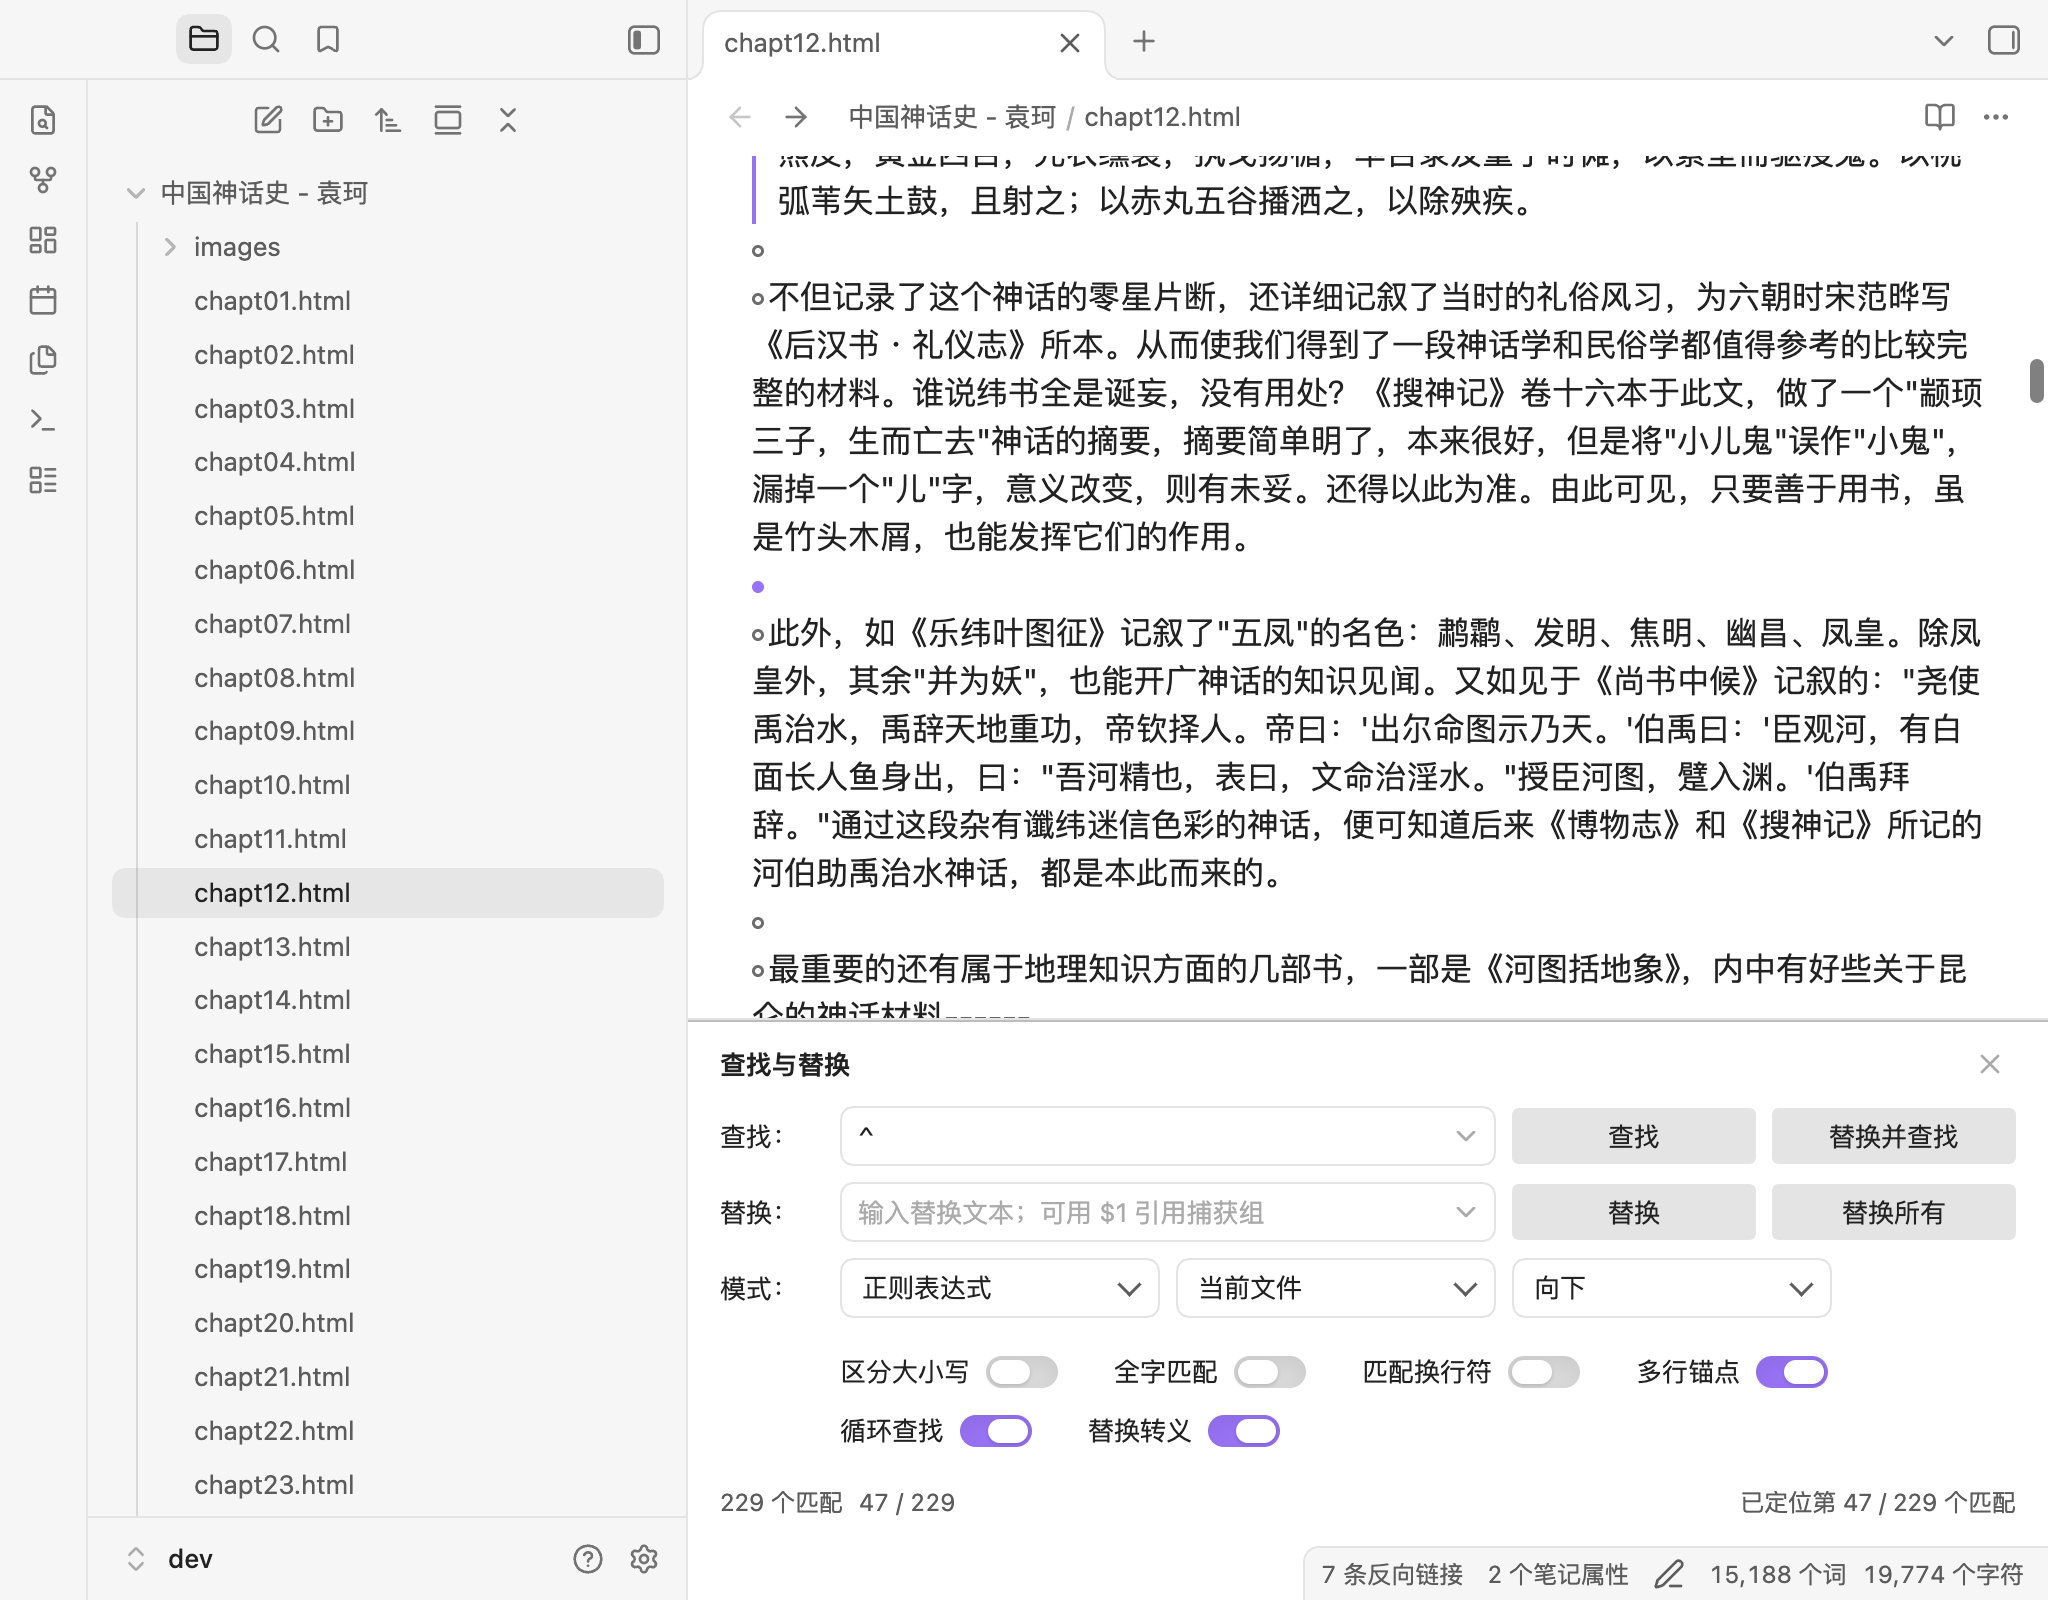
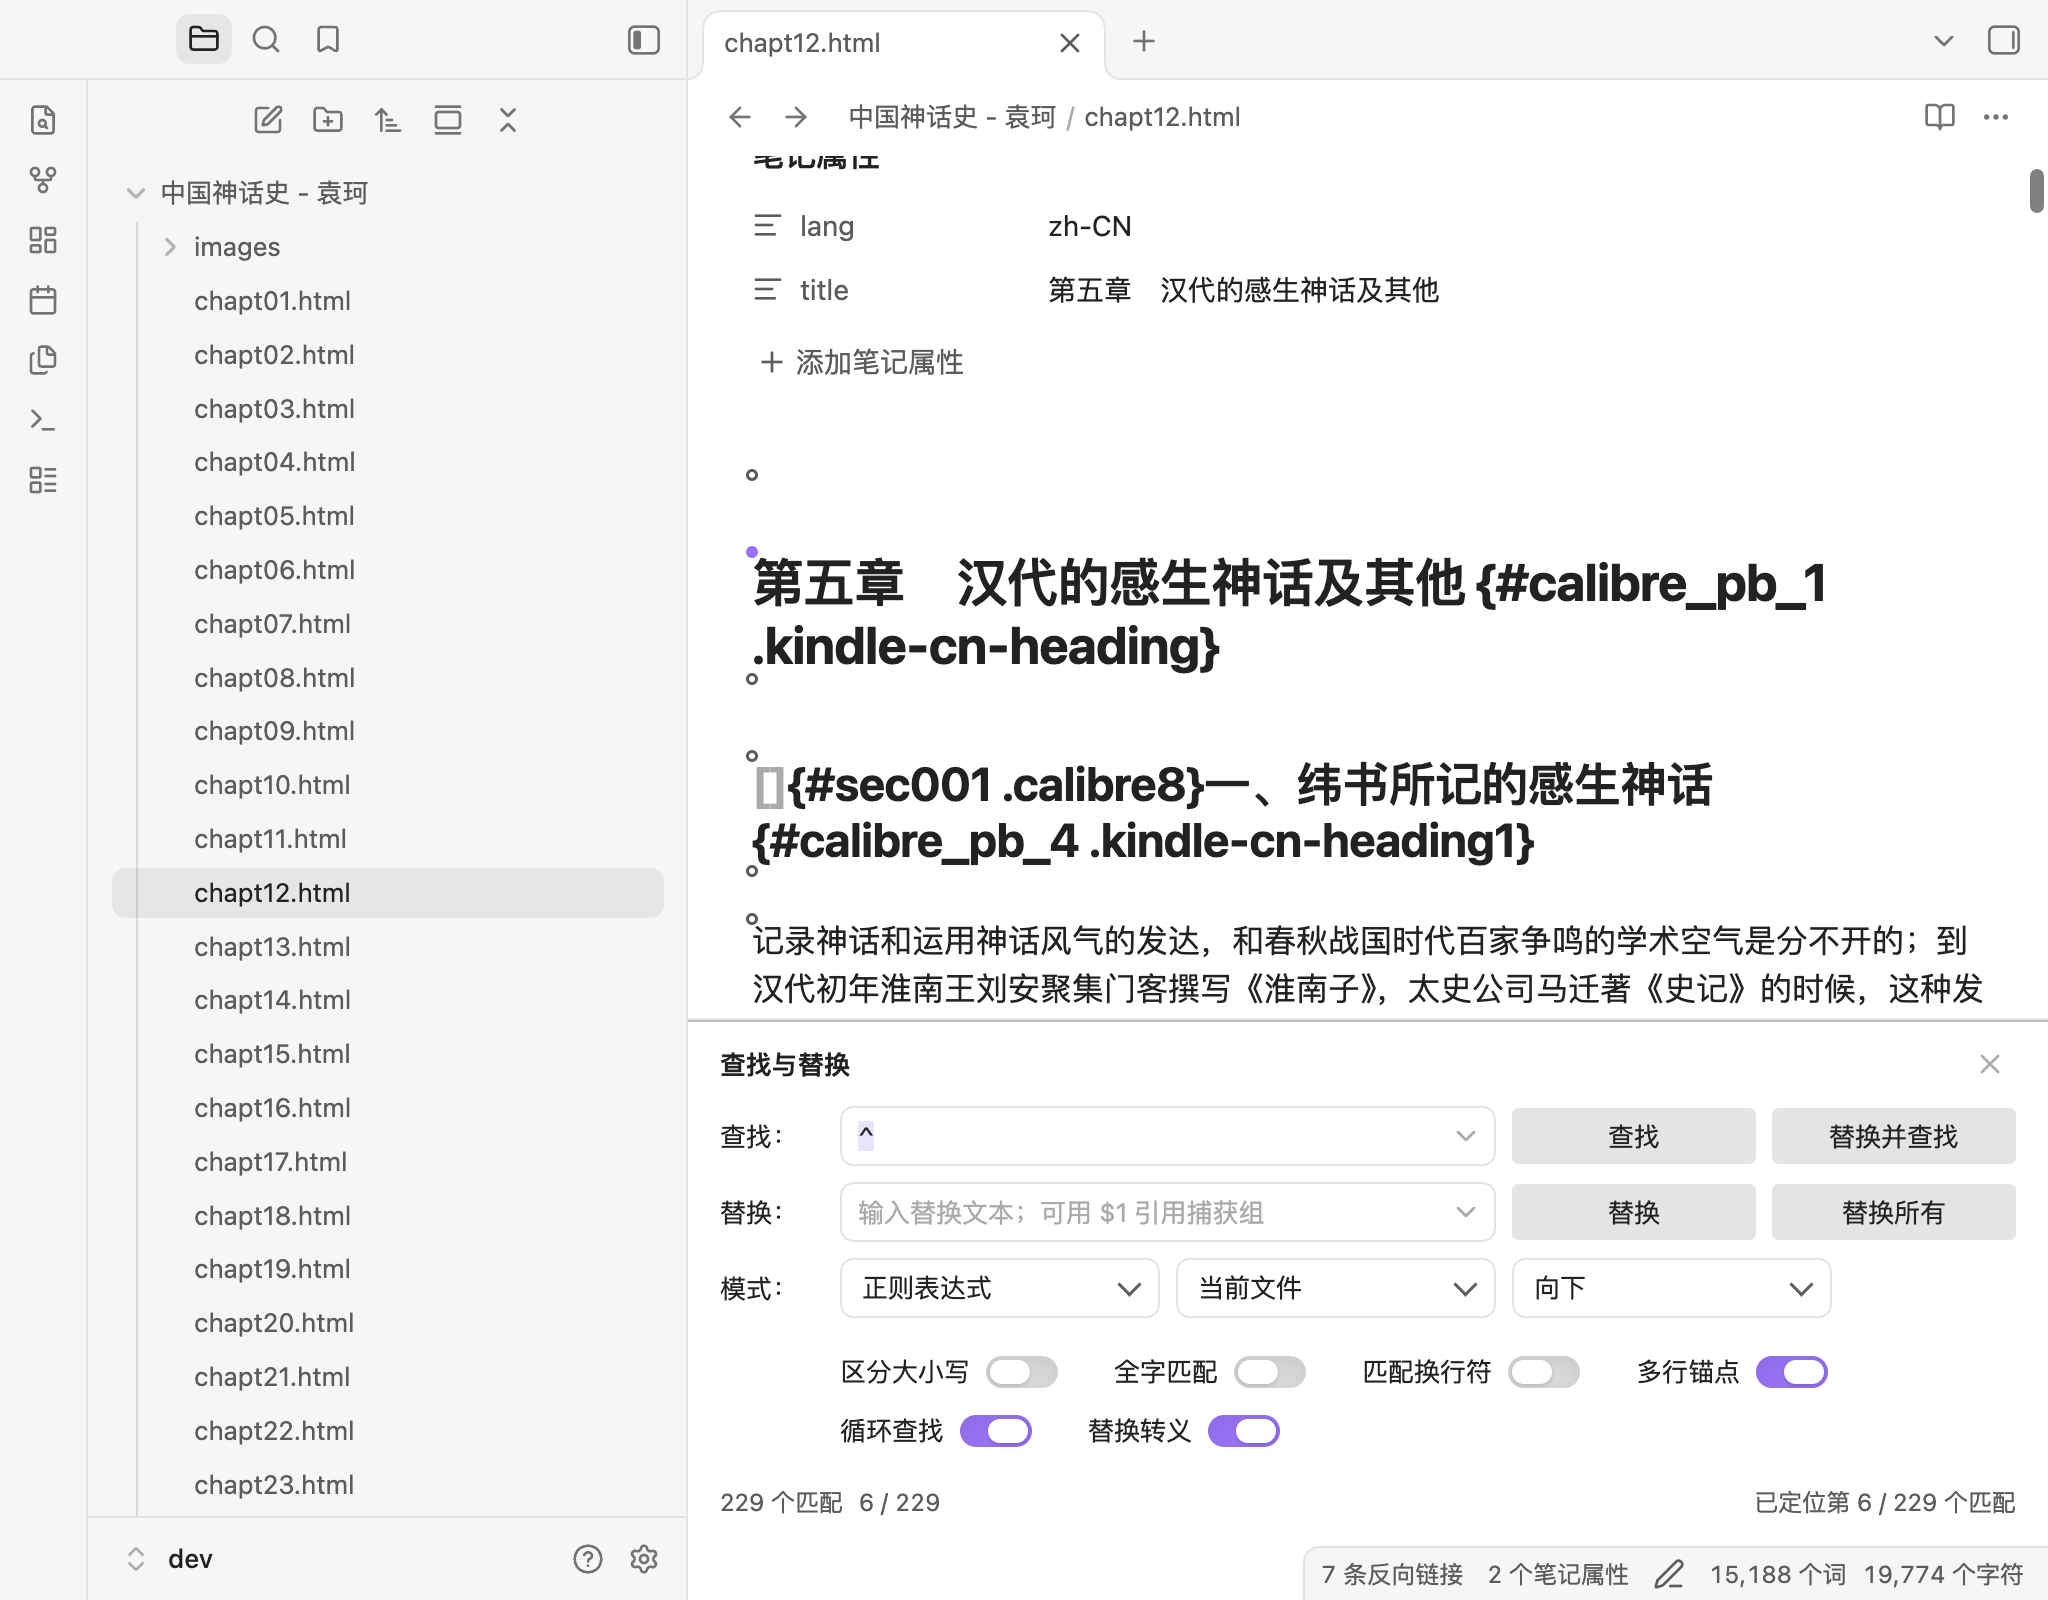
Refine zero-width and newline marker rendering

diff --git a/styles.css b/styles.css
@@ -296,31 +296,43 @@
 	box-shadow: 0 0 0 1px var(--interactive-accent);
 }
 
-.rr-zero-width {
+.rr-zero-width,
+.rr-line-break {
+	position: relative;
 	display: inline-block;
-	box-sizing: border-box;
+	width: 0;
+	height: 1em;
+	margin: 0;
+	border: 0;
+	background: transparent;
+	pointer-events: none;
+	vertical-align: text-bottom;
+}
+
+.rr-zero-width::before {
+	position: absolute;
+	top: -0.05em;
+	left: 50%;
 	width: 6px;
 	height: 6px;
-	margin: 0 2px 0 0;
+	box-sizing: border-box;
 	border: 1.5px solid var(--text-muted);
 	border-radius: 50%;
 	background-color: transparent;
-	opacity: 0.9;
-	pointer-events: none;
-	vertical-align: 0.1em;
+	transform: translate(-50%, -100%);
+	content: "";
 }
 
-.rr-zero-width.rr-zero-width-active {
+.rr-zero-width.rr-zero-width-active::before {
 	border-color: var(--interactive-accent);
 	background-color: var(--interactive-accent);
 	box-shadow: 0 0 0 1px var(--background-primary);
-	opacity: 1;
 }
 
-.rr-line-break {
-	display: inline-block;
-	box-sizing: border-box;
-	margin: 0 1px;
+.rr-line-break::before {
+	position: absolute;
+	left: 2px;
+	bottom: 0.15em;
 	padding: 0 2px;
 	color: var(--text-muted);
 	font-family: var(--font-interface);
@@ -330,11 +342,11 @@
 	border-radius: 3px;
 	background-color: var(--background-primary);
 	opacity: 0.85;
-	pointer-events: none;
-	vertical-align: text-bottom;
+	white-space: nowrap;
+	content: "\21B5";
 }
 
-.rr-line-break.rr-line-break-active {
+.rr-line-break.rr-line-break-active::before {
 	color: var(--text-on-accent);
 	background-color: var(--interactive-accent);
 	border-color: var(--interactive-accent);

diff --git a/src/editor/inline-panel.ts b/src/editor/inline-panel.ts
@@ -62,7 +62,6 @@ class LineBreakMarker extends WidgetType {
 		marker.className = this.active
 			? "rr-line-break rr-line-break-active"
 			: "rr-line-break";
-		marker.textContent = "\u21B5";
 		marker.setAttribute("aria-hidden", "true");
 		return marker;
 	}

diff --git a/UI-SPEC.md b/UI-SPEC.md
@@ -199,8 +199,8 @@ The status container has `role="status"`, `aria-live="polite"`, `aria-atomic="tr
 
 - **All matches** in the current file or captured selection use `.rr-match-highlight` with `--text-highlight-bg` (fallback `--text-selection`). Visible at all times, including while the find field has focus.
 - **Active match** adds `.rr-match-highlight-active`, using `--text-selection` and an accent outline. The outline means the distinction is not color-only.
-- **Zero-width matches** use a 6px hollow circular dot (`.rr-zero-width`) for inactive matches and a filled accent dot with a `--background-primary` halo (`.rr-zero-width-active`) for the active match. The dot shape is deliberately different from a blockquote border; it is `pointer-events: none` so it does not block the caret.
-- **Newline matches** (`\n`, `。\n`, dotAll spans) use a small `↵` pill (`.rr-line-break`, active `.rr-line-break-active`) at each covered line end. A newline-only match has no text mark, but its marker is visible; a mixed match shows the character mark plus the marker.
+- **Zero-width matches** use a 6px hollow circular dot (`.rr-zero-width`) for inactive matches and a filled accent dot with a `--background-primary` halo (`.rr-zero-width-active`) for the active match. Dots are rendered just above the insertion point by a zero-layout-width pseudo-element, so they neither shift text nor resemble a blockquote border; `pointer-events: none` keeps the caret usable.
+- **Newline matches** (`\n`, `。\n`, dotAll spans) use a small `↵` pill (`.rr-line-break`, active `.rr-line-break-active`) at each covered line end; it is absolutely positioned and adds no line width. A newline-only match has no text mark, but its marker is visible; a mixed match shows the character mark plus the marker.
 - At most 5,000 ranges, 1,000 zero-width dots, and 1,000 line-break markers are rendered; the active range is always preserved. The count/position still reflect the scan total up to 10,000/100,000.
 - Highlights are cleared on close, empty/error states, and document switch.
 - Highlight effects are coalesced into a `setTimeout(0)` task; no dispatch occurs while CodeMirror is updating.

diff --git a/README.md b/README.md
@@ -19,7 +19,7 @@ A find/replace panel for Obsidian with **exact**, **wildcard**, and **regular ex
 - **Multi-window**: each Obsidian window has its own panel; the command targets the editor of the window it is invoked in and closing one window’s panel does not close the others.
 - **All-match highlighting**: every match in the current file or selection is highlighted; the current match has a stronger outline, so the result set is visible while you type or step through it.
 - **Current position**: a persistent `3 / 164` indicator follows Find, selection changes, replacements, and panel reopen.
-- **Zero-width matches**: `^`, `\b`, and lookahead matches get a small hollow dot; the active match gets a filled accent dot with a halo.
+- **Zero-width matches**: `^`, `\b`, and lookahead matches get a small hollow dot above the caret position; the active match gets a filled accent dot with a halo. The dots add no layout width.
 - **Newline matches**: matches containing a line break (`\n`, `。\n`, or dotAll matches crossing lines) show a small `↵` pill at the affected line end, so an otherwise invisible newline is visible and the active break is highlighted.
 - **Editor-focus navigation**: F3, Shift+F3, and Escape work while the editor has focus, not only while the find field has focus.
 - **Compact actions**: the four action buttons use a desktop size close to Obsidian settings controls, with hover and pressed (accent) feedback.

diff --git a/PLAN.md b/PLAN.md
@@ -96,7 +96,7 @@ Main files:
 - The active match adds `.rr-match-highlight-active` with the selection background and an accent outline.
 - The status row always shows `count` on the left and `position / total` next to it: `164 个匹配  11 / 164`.
 - The position follows Find, Replace, selection changes, replacement, document changes, and reopening the panel.
-- Zero-width matches render a small hollow `.rr-zero-width` dot; the active match is a filled accent dot with a background halo, so it is distinct from other matches and from a blockquote border.
+- Zero-width matches render a small hollow `.rr-zero-width` dot above the insertion point (zero layout width); the active match is a filled accent dot with a background halo, so it is distinct from other matches and from a blockquote border.
 - Matches containing `\n` render a `.rr-line-break` `↵` pill at each affected line end; the active match's pill is accent-filled. This makes newline-only matches and mixed matches such as `。\n` visible.
 - Highlight ranges are capped at 5,000, zero-width dots at 1,000, and line-break markers at 1,000; the active match is always kept.
 - F3 / Shift+F3 / Escape work from the editor while the panel is open; the panel does not need focus.

diff --git a/README.zh-CN.md b/README.zh-CN.md
@@ -19,7 +19,7 @@
 - **多窗口**：每个 Obsidian 窗口拥有独立面板；命令作用于触发它的窗口中的编辑器，关闭一个窗口的面板不影响其它窗口。
 - **全部匹配高亮**：当前文件或选区内的所有匹配都会高亮，当前匹配使用更强的描边；输入或逐条查找时都能看到结果集。
 - **当前序号**：状态行持续显示 `3 / 164`，并随查找、选区变化、替换和重新打开面板更新。
-- **零宽匹配**：`^`、`\b`、lookahead 等零宽匹配显示小空心圆点，当前匹配显示填充强调色圆点并带光晕。
+- **零宽匹配**：`^`、`\b`、lookahead 等零宽匹配在光标位置上方显示小空心圆点，当前匹配显示填充强调色圆点并带光晕；圆点不占布局宽度。
 - **换行匹配**：包含换行的匹配（`\n`、`。\n` 或跨行 dotAll 匹配）会在受影响行尾显示小 `↵` 标记，让本身没有字形的换行可见，当前换行使用强调色。
 - **编辑器焦点下的导航**：面板打开时，焦点在正文也可使用 F3、Shift+F3、Escape。
 - **紧凑按钮**：四个动作按钮采用接近设置页控件的大小，并带 hover 与按下（强调色）反馈。

diff --git a/CHANGELOG.md b/CHANGELOG.md
@@ -11,12 +11,14 @@ versions are intentionally not reconstructed.
 
 - Redesigned zero-width markers from theme-accent vertical bars to small
   **hollow dots** for inactive matches and **filled accent dots** with a
-  background-colored halo for the active match. The dot shape no longer reads
-  as a blockquote's left border, and active/inactive states are distinct.
+  background-colored halo for the active match. The dots use a pseudo-element
+  with zero layout width and sit just above the insertion point, so they do
+  not shift text, collide with a blockquote border, or get confused with one.
 - Added **line-break markers** for matches that contain `\n` (for example
   `\n`, `。\n`, or a dotAll match crossing lines). Each covered newline shows
   a small `↵` pill at the end of the affected line; the active match's pill is
-  filled with the accent color. A newline-only match is now visible even though
+  filled with the accent color. The pill is absolutely positioned so it does
+  not change line width. A newline-only match is now visible even though
   the newline itself has no glyph.
 
 ### Added

diff --git a/IMPLEMENTATION.md b/IMPLEMENTATION.md
@@ -73,8 +73,8 @@ Mobile / fallback dialog:
 
 - `.rr-status-left` groups the count and position; `.rr-position` uses tabular numerals.
 - `.rr-match-highlight` uses `var(--text-highlight-bg, color-mix(... --text-selection ...))`; the active class uses `var(--text-selection)` plus an accent outline so the distinction is not color-only.
-- `.rr-zero-width` is a 6px hollow circular dot for inactive matches; `.rr-zero-width-active` is filled accent with a background-colored halo.
-- `.rr-line-break` is a small `↵` pill; `.rr-line-break-active` is accent-filled with `--text-on-accent` text.
+- `.rr-zero-width` is a 6px hollow circular dot above the insertion point for inactive matches; `.rr-zero-width-active` is filled accent with a background-colored halo. Both use a zero-layout-width pseudo-element, so text does not shift.
+- `.rr-line-break` is an absolutely positioned `↵` pill at the line end; `.rr-line-break-active` is accent-filled with `--text-on-accent` text. It does not change line width.
 - Existing desktop/compact/mobile layout rules are unchanged.
 
 ## What was built
